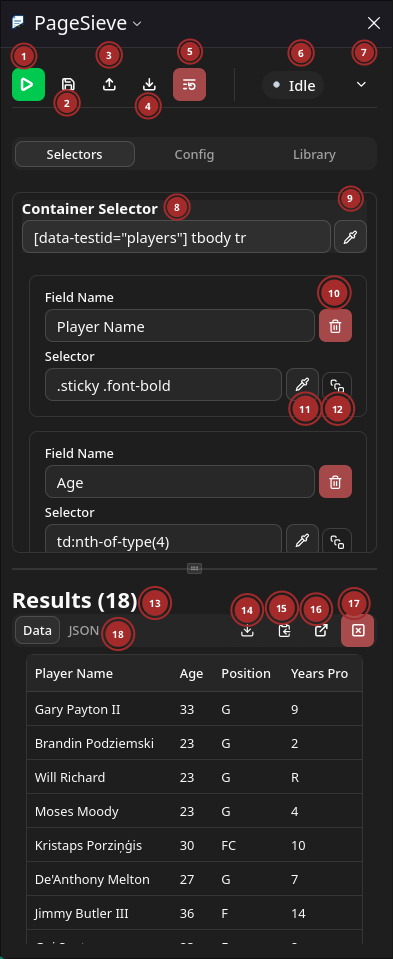
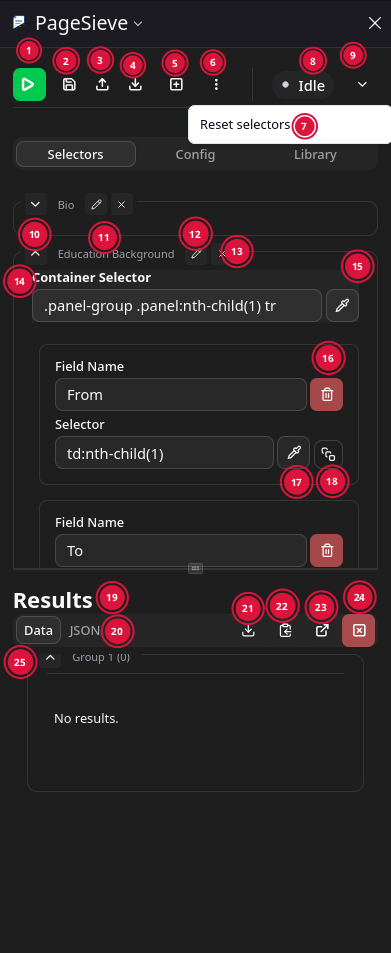
Built site for gh-pages

diff --git a/reference/ui.html b/reference/ui.html
@@ -86,13 +86,13 @@ ul.task-list li input[type="checkbox"] {
 <meta property="og:image" content="https://github.com/julius383/PageSieve/assets/annotated-PageSieve-MainView.png">
 <meta property="og:site_name" content="PageSieve">
 <meta property="og:image:alt" content="Screenshot of Main View">
-<meta property="og:image:height" content="959">
-<meta property="og:image:width" content="393">
+<meta property="og:image:height" content="953">
+<meta property="og:image:width" content="391">
 <meta name="twitter:title" content="UI Overview – PageSieve">
 <meta name="twitter:image" content="https://github.com/julius383/PageSieve/assets/annotated-PageSieve-MainView.png">
 <meta name="twitter:image:alt" content="Screenshot of Main View">
-<meta name="twitter:image-height" content="959">
-<meta name="twitter:image-width" content="393">
+<meta name="twitter:image-height" content="953">
+<meta name="twitter:image-width" content="391">
 <meta name="twitter:card" content="summary_large_image">
 </head>
 
@@ -413,20 +413,27 @@ ul.task-list li input[type="checkbox"] {
 <li>Save config to browser storage</li>
 <li>Load config to from a file</li>
 <li>Save config to a file.</li>
+<li>Add selector group. Useful for extracting different data from same page.</li>
+<li>Menu with more actions</li>
 <li>Reset defined fields.</li>
 <li>Status indicator. Statuses are defined in <code>src/types.ts</code></li>
 <li>Show logs.</li>
+<li>Collapse selector group</li>
+<li>Selector group name user editable</li>
+<li>Rename selector group</li>
+<li>Delete selector group</li>
 <li>Selector for container for individual items.</li>
-<li>Start interactive element picker.</li>
+<li>Start interactive element picker for element container.</li>
 <li>Delete field.</li>
 <li>Start interactive element picker.</li>
-<li>Switch to array selection for this field.</li>
+<li>Switch to array extraction for this field.</li>
 <li>Results section.</li>
+<li>Show results as JSON</li>
 <li>Download extracted data</li>
 <li>Copy extracted data</li>
 <li>Show results in a fullpage</li>
 <li>Clear results</li>
-<li>Show results as JSON</li>
+<li>Collapse results for a selector group</li>
 </ol>
 </div>
 </div>
